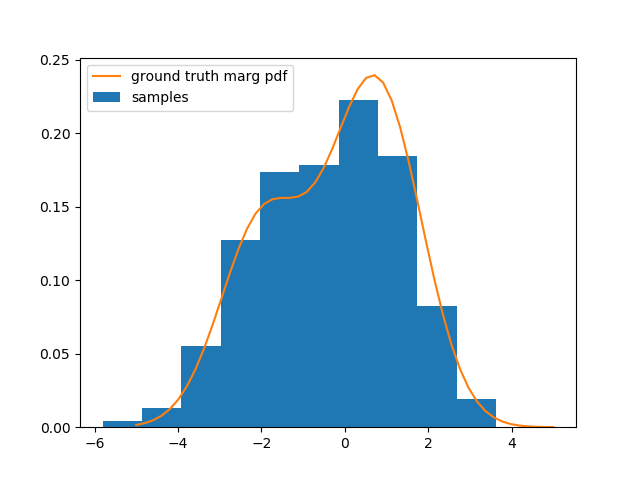
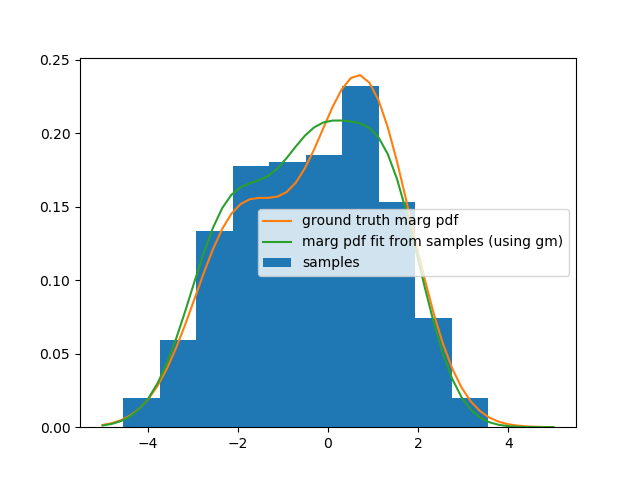
implement parameter estimation (joint marg table for disc and scalar gm fitting for cont) from samples

diff --git a/gibbs/test_hybrid.py b/gibbs/test_hybrid.py
@@ -1,10 +1,14 @@
 import utils
 
 utils.set_path()
+import sampling_utils
 
 from Graph import F, RV, Domain, Graph
 from Potential import LogTable, LogQuadratic, LogHybridQuadratic
 import numpy as np
+
+seed = 0
+np.random.seed(0)
 from hybrid_gaussian_mrf import convert_to_bn, block_gibbs_sample, get_crv_marg, get_drv_marg
 
 rvs = [RV(domain=Domain(values=(0, 1, 2), continuous=False)), RV(domain=Domain(values=(-5, 5), continuous=True)),
@@ -27,6 +31,7 @@ g.factors = factors
 g.init_nb()
 g.init_rv_indices()  # all we really need is to create disc/cont indices and factor.disc_nb_idx/cont_nb_idx attrs
 Vd, Vc, Vd_idx, Vc_idx = g.Vd, g.Vc, g.Vd_idx, g.Vc_idx
+dstates = [rv.dstates for rv in Vd]
 
 bn = convert_to_bn(factors, Vd, Vc)
 print('BN params', bn)
@@ -35,15 +40,18 @@ num_burnin = 200
 num_samples = 1000
 disc_samples, cont_samples = block_gibbs_sample(factors, Vd=Vd, Vc=Vc, num_burnin=num_burnin,
                                                 num_samples=num_samples, disc_block_its=2)
+sampled_disc_marginal_table = sampling_utils.get_disc_marg_table_from_samples(disc_samples, dstates)
 
 test_drv_idx = 0
 print('true test drv marg', get_drv_marg(bn[0], Vd_idx, Vd[test_drv_idx]))
-print('sampled test drv marg', np.bincount(disc_samples[:, test_drv_idx]) / num_samples)
+print('sampled test drv marg', get_drv_marg(sampled_disc_marginal_table, Vd_idx, Vd[test_drv_idx]))
 
 test_crv_idx = 0
 # test_crv_idx = 1
 test_crv_marg_params = get_crv_marg(*bn, Vc_idx, Vc[test_crv_idx])
 print('true test crv marg params', test_crv_marg_params)
+sampled_test_crv_marg_params = sampling_utils.fit_scalar_gm_from_samples(cont_samples[:, test_crv_idx], K=3)
+print('sampled test crv marg params (using gm fit)', sampled_test_crv_marg_params)
 
 import matplotlib.pyplot as plt
 
@@ -54,6 +62,10 @@ plt.plot(xs,
          np.exp(utils.get_scalar_gm_log_prob(xs, w=test_crv_marg_params[0], mu=test_crv_marg_params[1],
                                              var=test_crv_marg_params[2])),
          label='ground truth marg pdf')
+plt.plot(xs,
+         np.exp(utils.get_scalar_gm_log_prob(xs, w=sampled_test_crv_marg_params[0], mu=sampled_test_crv_marg_params[1],
+                                             var=sampled_test_crv_marg_params[2])),
+         label='marg pdf fit from samples (using gm)')
 plt.legend(loc='best')
 # plt.show()
 save_name = __file__.split('.py')[0]

diff --git a/gibbs/test_hybrid2.py b/gibbs/test_hybrid2.py
@@ -1,10 +1,14 @@
 import utils
 
 utils.set_path()
+import sampling_utils
 
 from Graph import F, RV, Domain, Graph
 from Potential import LogTable, LogQuadratic, LogHybridQuadratic
 import numpy as np
+
+seed = 0
+np.random.seed(0)
 from hybrid_gaussian_mrf import convert_to_bn, block_gibbs_sample, get_crv_marg, get_drv_marg
 
 rvs = [RV(domain=Domain(values=(0, 1, 2), continuous=False)),
@@ -30,6 +34,7 @@ g.factors = factors
 g.init_nb()
 g.init_rv_indices()  # all we really need is to create disc/cont indices and factor.disc_nb_idx/cont_nb_idx attrs
 Vd, Vc, Vd_idx, Vc_idx = g.Vd, g.Vc, g.Vd_idx, g.Vc_idx
+dstates = [rv.dstates for rv in Vd]
 
 bn = convert_to_bn(factors, Vd, Vc)
 print('BN params', bn)
@@ -38,15 +43,18 @@ num_burnin = 200
 num_samples = 500
 disc_samples, cont_samples = block_gibbs_sample(factors, Vd=Vd, Vc=Vc, num_burnin=num_burnin,
                                                 num_samples=num_samples, disc_block_its=20)
+sampled_disc_marginal_table = sampling_utils.get_disc_marg_table_from_samples(disc_samples, dstates)
 
 test_drv_idx = 0
 print('true test drv marg', get_drv_marg(bn[0], Vd_idx, Vd[test_drv_idx]))
-print('sampled test drv marg', np.bincount(disc_samples[:, test_drv_idx]) / num_samples)
+print('sampled test drv marg', get_drv_marg(sampled_disc_marginal_table, Vd_idx, Vd[test_drv_idx]))
 
 # test_crv_idx = 0
 test_crv_idx = 1
 test_crv_marg_params = get_crv_marg(*bn, Vc_idx, Vc[test_crv_idx])
 print('true test crv marg params', test_crv_marg_params)
+sampled_test_crv_marg_params = sampling_utils.fit_scalar_gm_from_samples(cont_samples[:, test_crv_idx], K=3)
+print('sampled test crv marg params (using gm fit)', sampled_test_crv_marg_params)
 
 import matplotlib.pyplot as plt
 
@@ -57,6 +65,10 @@ plt.plot(xs,
          np.exp(utils.get_scalar_gm_log_prob(xs, w=test_crv_marg_params[0], mu=test_crv_marg_params[1],
                                              var=test_crv_marg_params[2])),
          label='ground truth marg pdf')
+plt.plot(xs,
+         np.exp(utils.get_scalar_gm_log_prob(xs, w=sampled_test_crv_marg_params[0], mu=sampled_test_crv_marg_params[1],
+                                             var=sampled_test_crv_marg_params[2])),
+         label='marg pdf fit from samples (using gm)')
 plt.legend(loc='best')
 # plt.show()
 save_name = __file__.split('.py')[0]

diff --git a/gibbs/sampling_utils.py b/gibbs/sampling_utils.py
@@ -1,0 +1,36 @@
+import numpy as np
+
+
+def get_disc_marg_table_from_samples(samples, dstates):
+    """
+
+    :param samples: S x N array, nth column contains S samples for node n
+    :param dstates: list [v1, v2, ..., vN], num discrete states for the N nodes
+    :return: arr of shape [v1, v2, ..., vN]
+    """
+    S, N = samples.shape
+    joint_counts = np.zeros(dstates, dtype=int)
+    unique_joint_configs, unique_counts = np.unique(samples, axis=0, return_counts=True)
+    joint_counts[tuple(unique_joint_configs[:, n] for n in range(N))] = unique_counts  # N columns of axis-wise indices
+    # resulting in np.bincounts(samples[:, n], minlength=dstates[n]) = np.sum(joint_counts, axis=(0,..,n-1,n+1,..)
+
+    # assert joint_counts.sum() == S
+    return joint_counts / S
+
+
+def fit_scalar_gm_from_samples(samples, K):
+    """
+    Given a vector of float samples, fit a Gaussian mixture
+    :param samples:
+    :param K:
+    :return:
+    """
+    from sklearn import mixture
+    clf = mixture.GaussianMixture(n_components=K, covariance_type='diag')
+    samples = samples.reshape(-1, 1)  # required by API, when there's one feature
+    clf.fit(samples)
+
+    w = clf.weights_
+    means = np.ravel(clf.means_)
+    vars = np.ravel(clf.covariances_)
+    return w, means, vars
